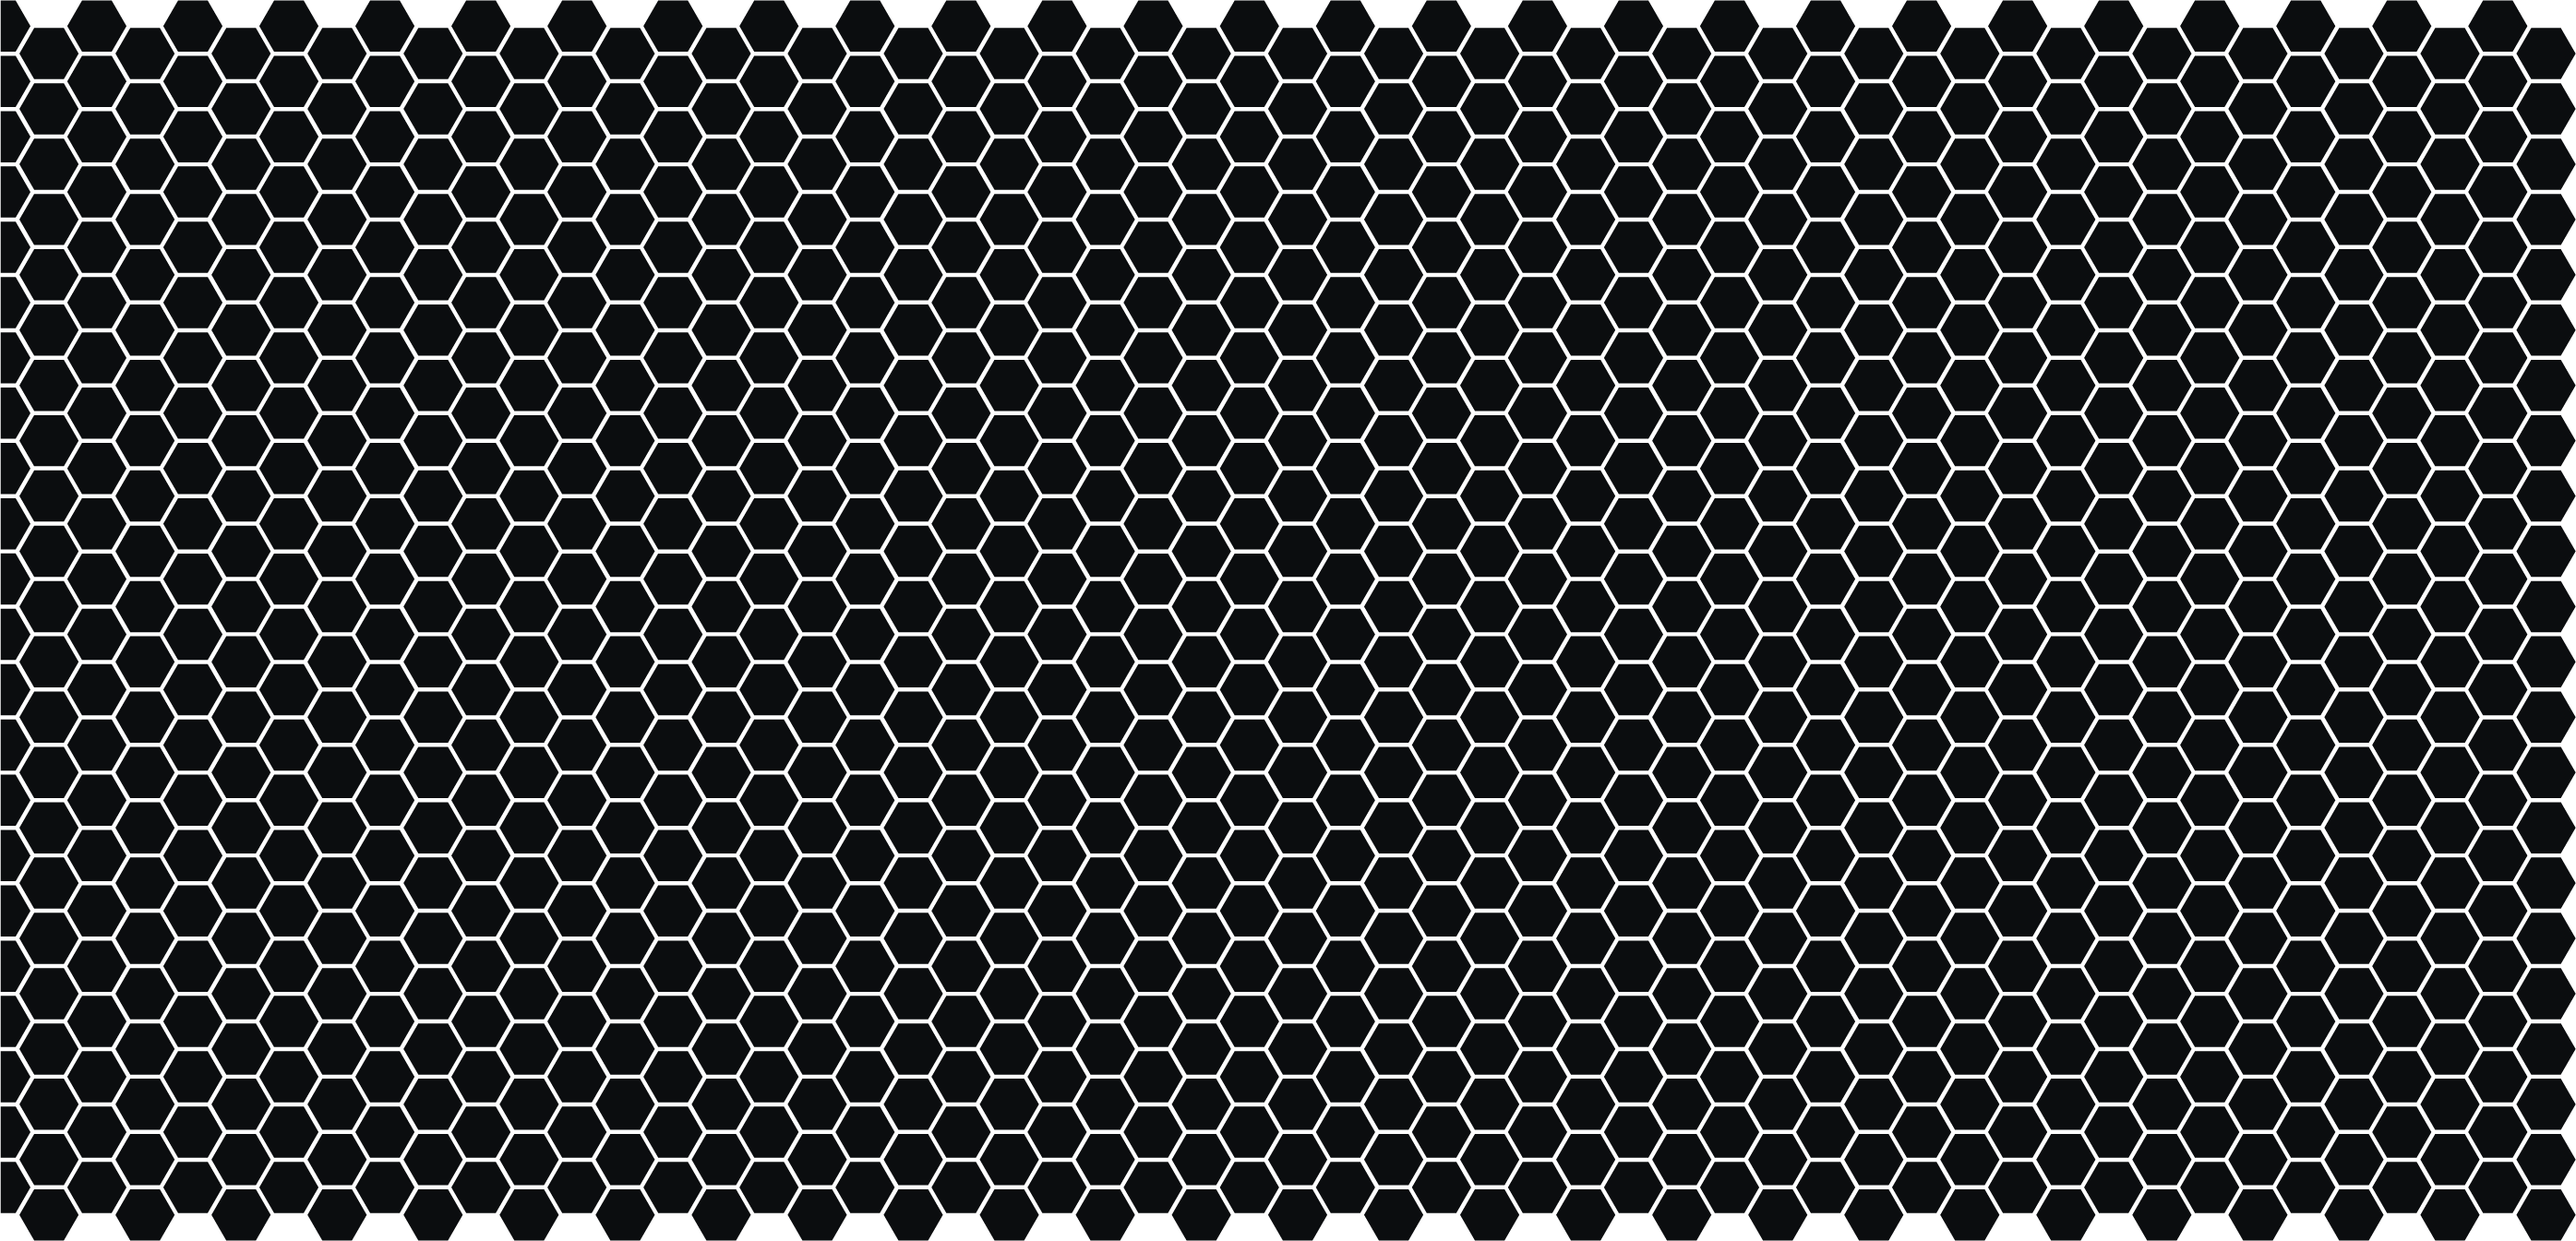
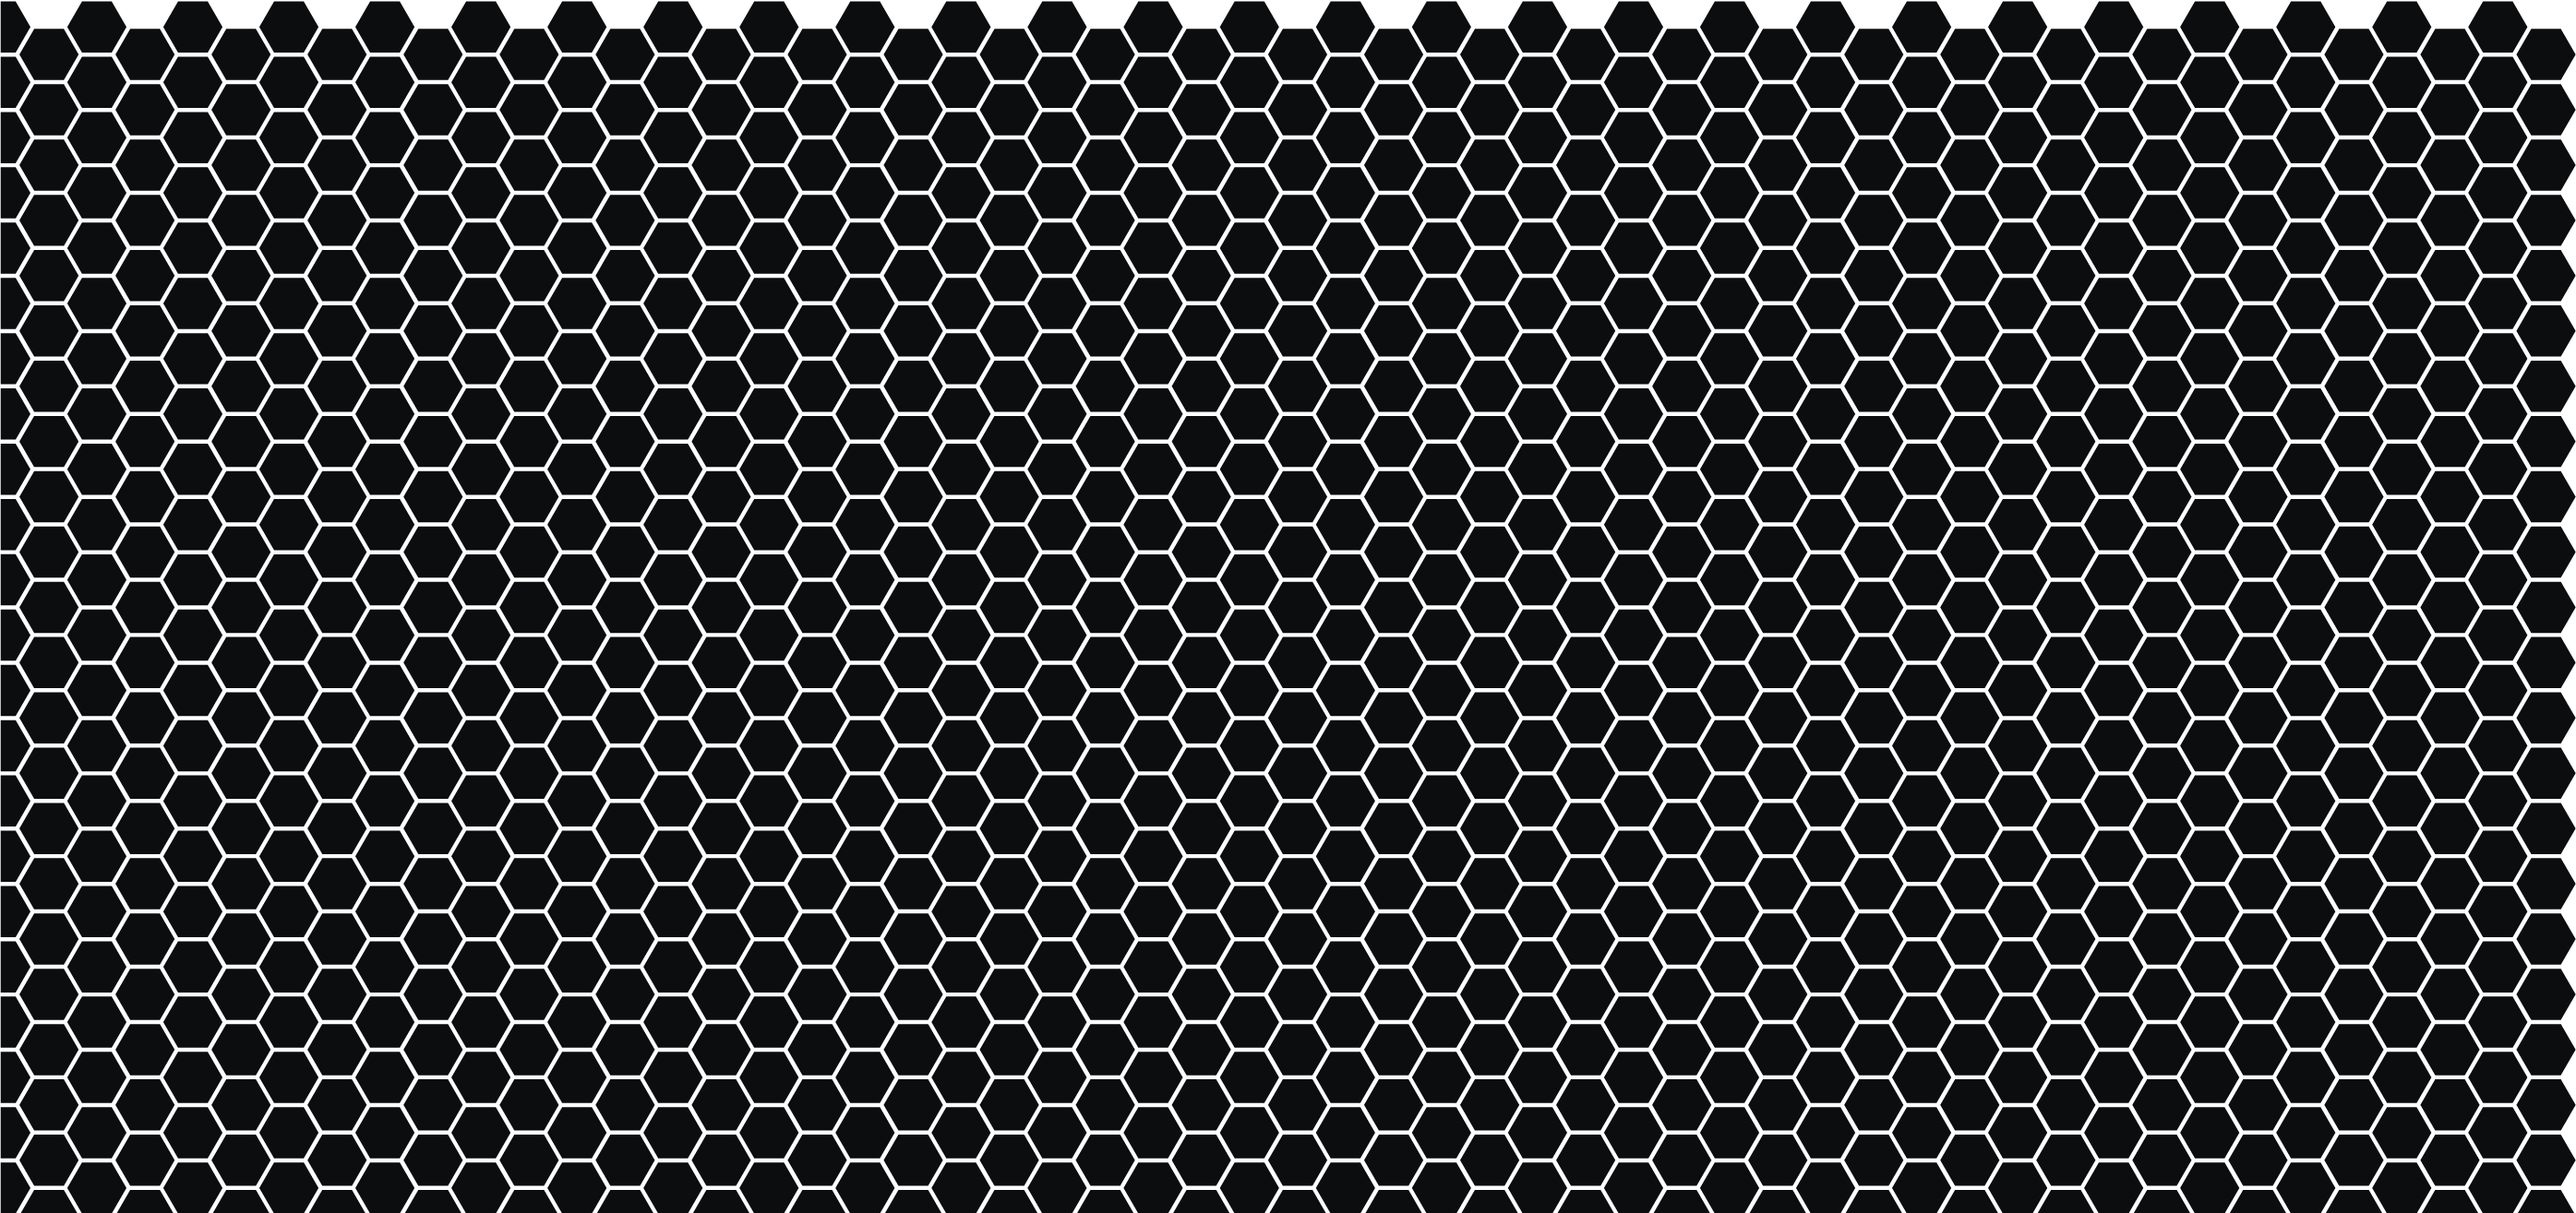
contact sm translate, header bg fix

Changed region(s): [[0.0, 0.0312, 1.0, 1.0]]

diff --git a/src/components/LangConfig.js b/src/components/LangConfig.js
@@ -44,6 +44,7 @@ i18n.use(initReactI18next).init({
                 itTechnicalSchool: "IT technical school",
                 itTechnicalSchoolDescription: "Technical Secondary School in IT - Zespół Szkół Mechaniczno Elektrycznych w Tarnowie",
                 sections: "Sections",
+                contactHint: "Click on the icon to go to the way of contact you are interested in."
             }
         },
         pl: {
@@ -86,6 +87,7 @@ i18n.use(initReactI18next).init({
                 itTechnicalSchool: "Technikum informatyczne",
                 itTechnicalSchoolDescription: "Technikum o kierunku informatycznym - Zespół Szkół Mechaniczno Elektrycznych w Tarnowie",
                 sections: "Sekcje",
+                contactHint: "Kliknij ikonę, aby przejść do interesującej Cię formy kontaktu."
             }
         },
     },

diff --git a/src/components/Header.jsx b/src/components/Header.jsx
@@ -35,8 +35,8 @@ export default function Header() {
                     </div>
                 </div>
                 <div
-                    className='w-full h-screen background-animate bg-gradient-linear from-primary via-violet-700/10 to-primary absolute top-0 left-0 overflow-hidden'>
-                    <img src={hexbg} alt='threehex' className='max-w-none'/>
+                    className='w-full h-screen background-animate bg-gradient-linear from-primary via-violet-700/20 to-primary absolute top-0 left-0 overflow-hidden'>
+                    <img src={hexbg} alt='threehex' className='h-full max-w-none'/>
                 </div>
             </div>
         </section>

diff --git a/src/components/Contact.jsx b/src/components/Contact.jsx
@@ -26,8 +26,7 @@ export default function Contact() {
                  whileInView='show'
                  viewport={{once: true, amount: 0.25}}>
                 <p className='md:hidden text-center font-medium uppercase text-white'>
-                    Kliknij na odpowiednią ikonę, aby przejść do interesującej cię formy
-                    kontaktu.
+                    {t("contactHint")}
                 </p>
 
                 <ContactWays
